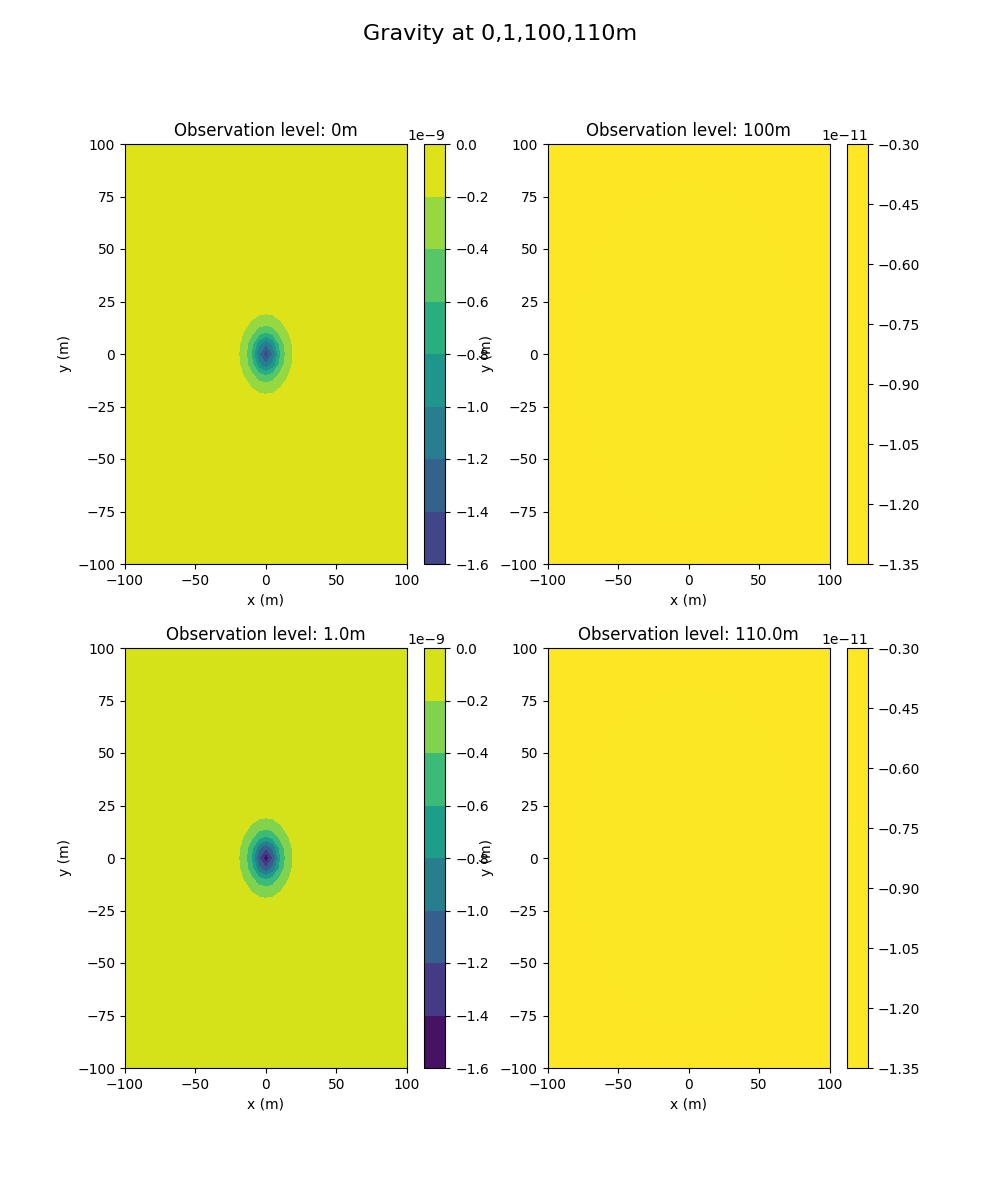
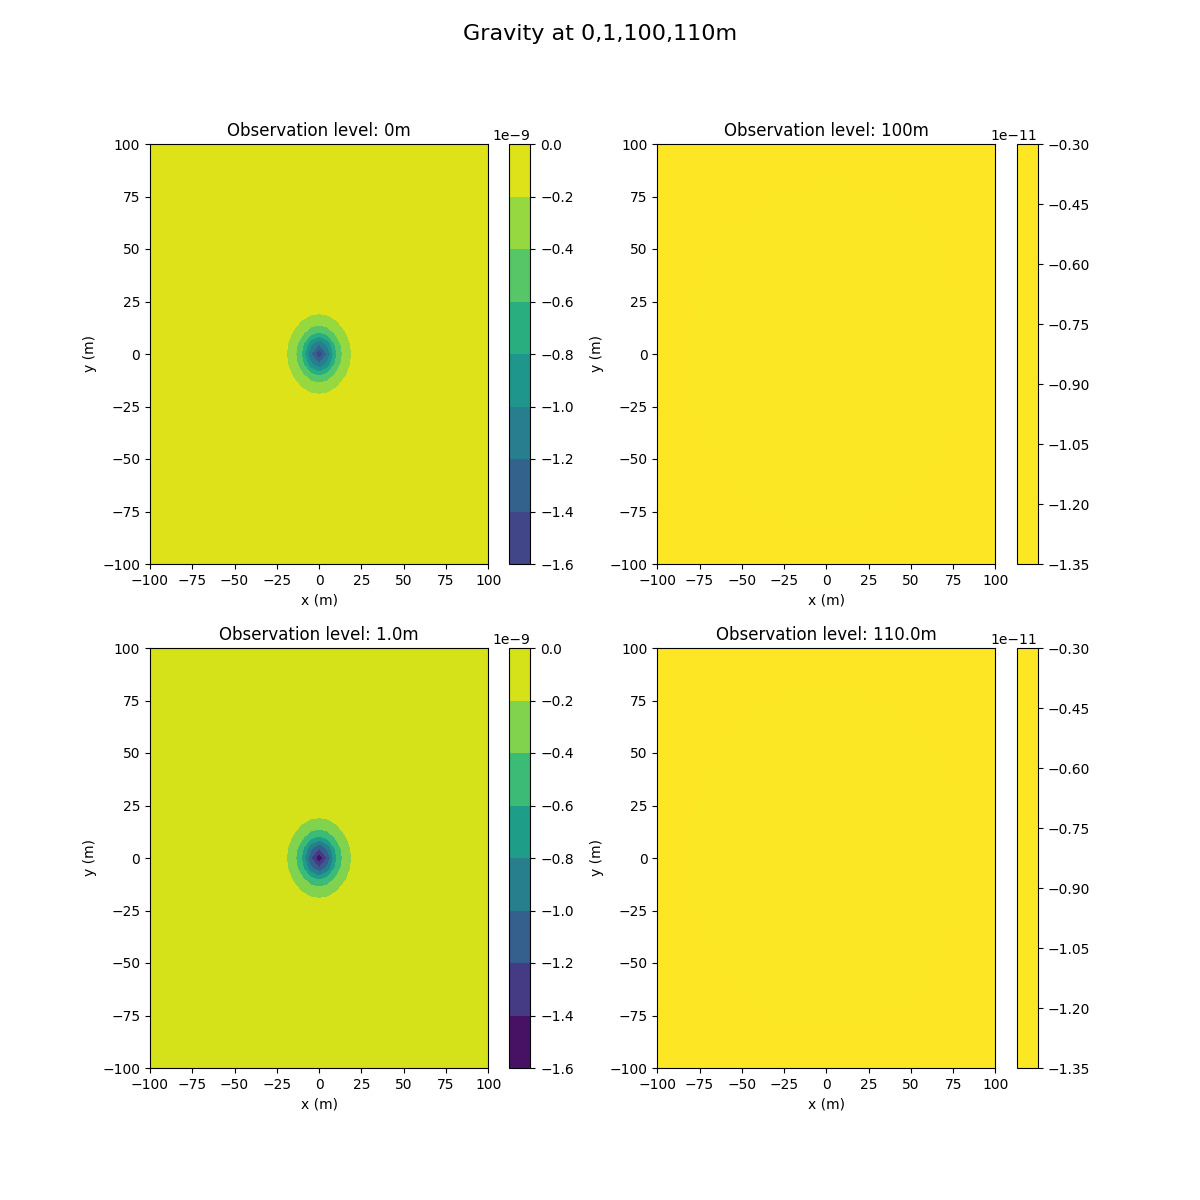
Format fix on 2x2 grid plot

diff --git a/examples/driver_mass_anomaly.py b/examples/driver_mass_anomaly.py
@@ -213,7 +213,7 @@ gz_new_max = np.max(gz_new)
 
 
 #Plot 2x2 Grid
-fig, axes = plt.subplots(2, 2, figsize=(10, 12))
+fig, axes = plt.subplots(2, 2, figsize=(12, 12))
 
 ax = axes[0,0]
 c = ax.contourf(x_5, y_5, gz_new[:, :, 0], vmin=gz_min, vmax=gz_max)
